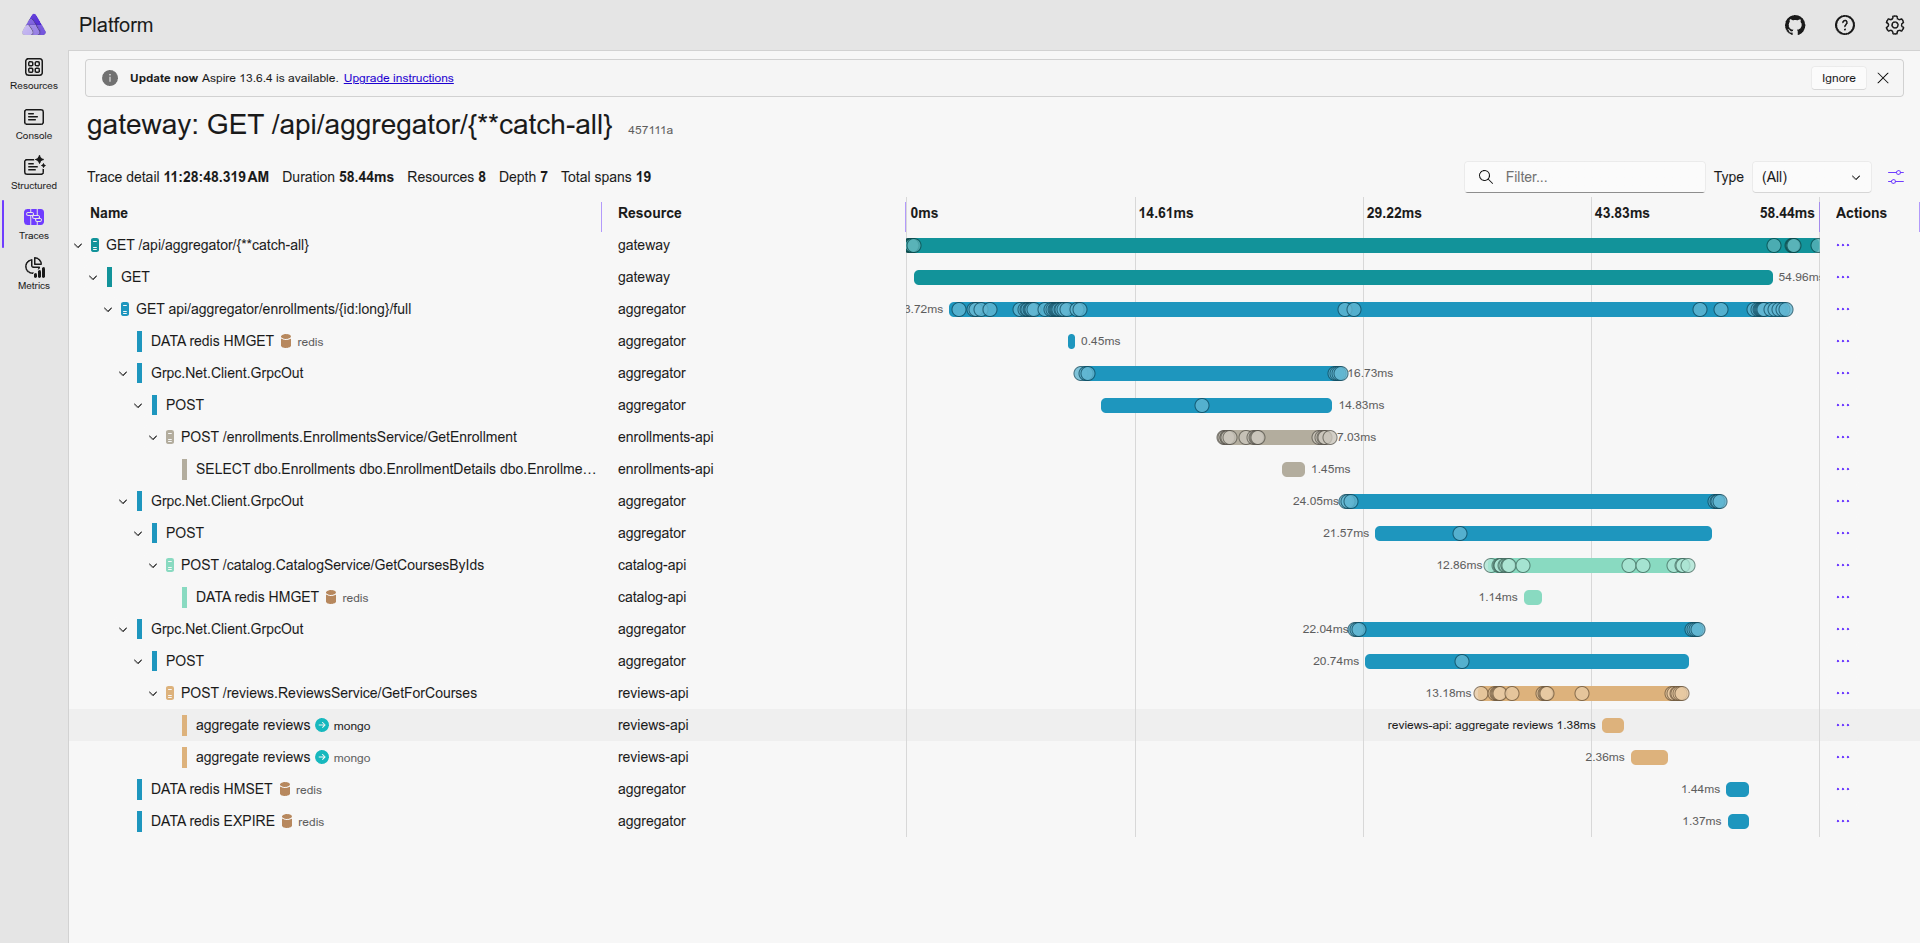
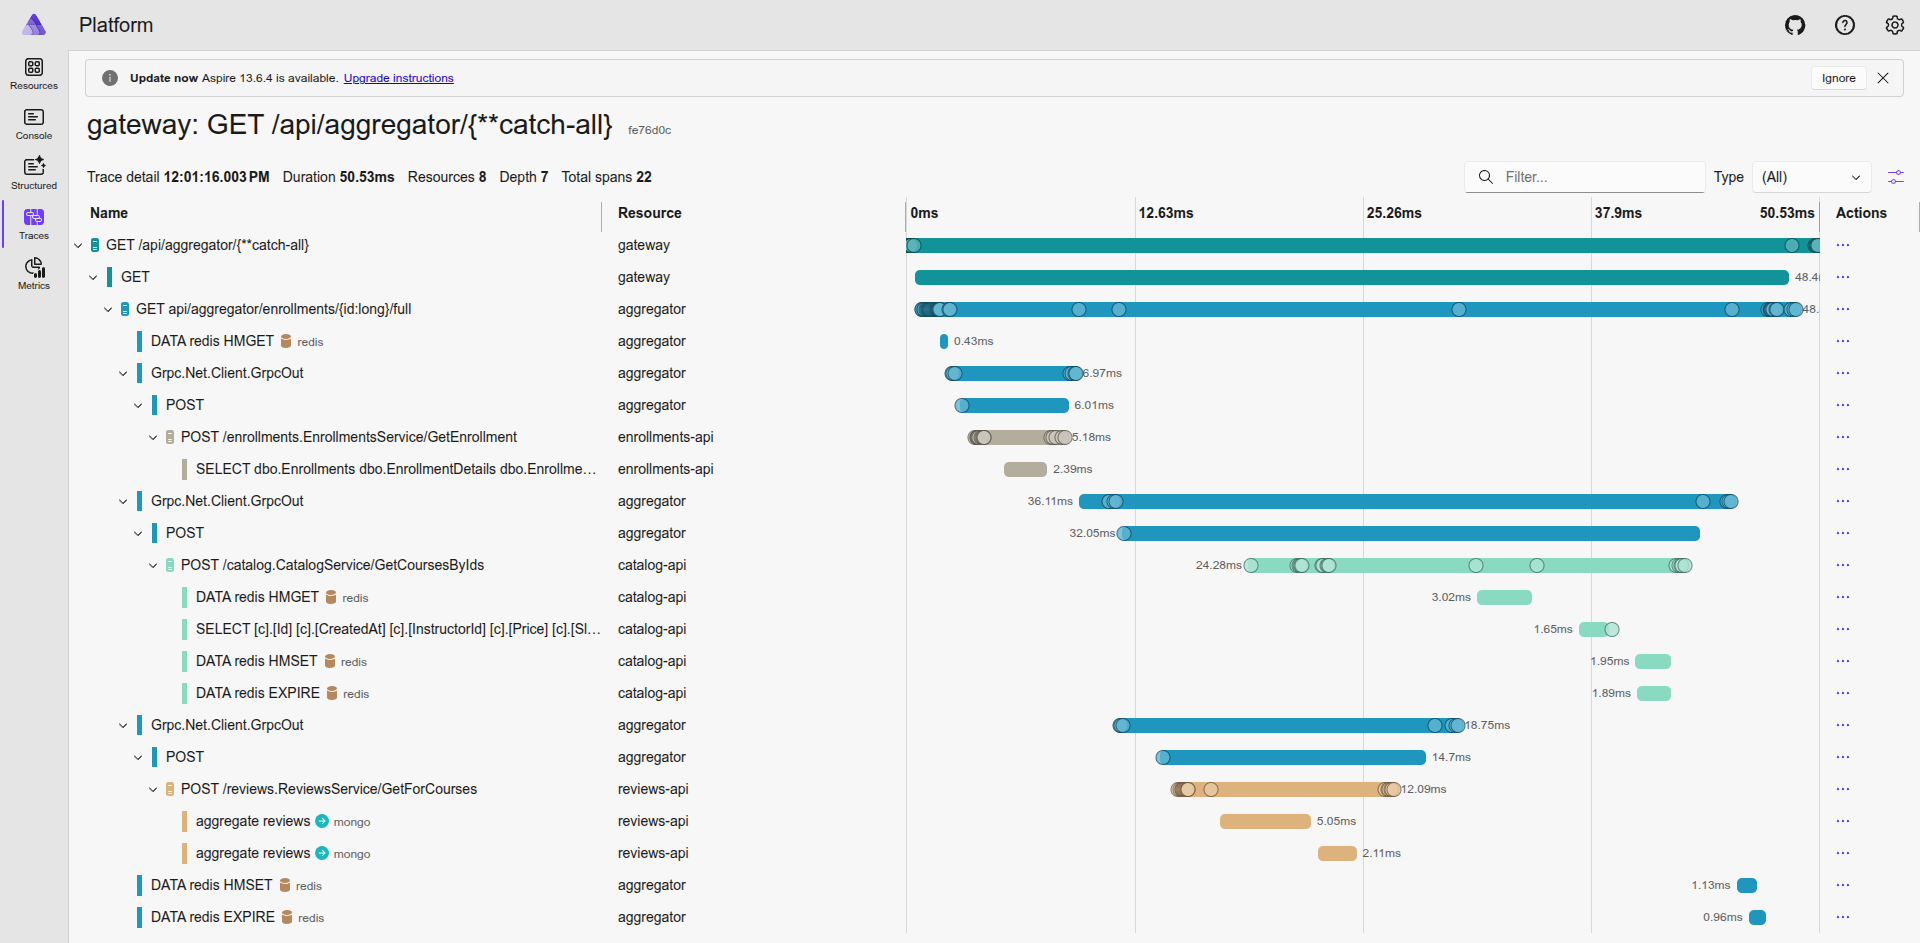
docs(lab-06): compare grpc with cold catalog cache

diff --git a/README.md b/README.md
@@ -256,13 +256,13 @@ curl -X DELETE 'http://localhost:5084/api/reviews/<id>'
 
 ### Дворівневий кеш каталогу
 
-`Catalog.Bll/Caching/TwoLevelCache` працює за схемою cache-aside: L1 (`IMemoryCache`) → L2 (`IDistributedCache` поверх Redis) → EF Core. L1 обмежений `SizeLimit = 10_000`, кожен запис має `Size = 1`, sliding expiration та absolute expiration; L1 живе 1-5 хв, L2 - 5-30 хв. Після запису в БД ключі видаляються з обох рівнів у тій самій операції, причина пише в лог.
+`Catalog.Bll/Caching/TwoLevelCache` працює за схемою cache-aside: L1 (`IMemoryCache`) → L2 (`IDistributedCache` поверх Redis) → EF Core. L1 обмежений `SizeLimit = 10_000`, кожен запис має `Size = 1`; для L1 задані sliding expiration та absolute expiration (не більше двох sliding-періодів), для L2 - абсолютний TTL. Після запису в БД ключі видаляються з обох рівнів у тій самій операції, причина пише в лог.
 
-| Ключ | Дані | L1 | L2 |
+| Ключ | Дані | L1 sliding / максимум | L2 |
 | --- | --- | --- | --- |
-| `catalog:course:{id}` | картка курсу | 1 хв | 10 хв |
-| `catalog:instructor:{id}:courses` | курси інструктора | 1 хв | 5 хв |
-| `catalog:categories:all` | довідник категорій | 5 хв | 30 хв |
+| `catalog:course:{id}` | картка курсу | 1 хв / 2 хв | 10 хв |
+| `catalog:instructor:{id}:courses` | курси інструктора | 1 хв / 2 хв | 5 хв |
+| `catalog:categories:all` | довідник категорій | 5 хв / 10 хв | 30 хв |
 
 `CacheMetrics` створює Meter `Catalog.Cache` з лічильниками `cache.hits`, `cache.misses` (тег `cache.level` = `L1`/`L2`) та `cache.invalidations`. Meter підключений у `ServiceDefaults`, тому метрики видні в Dashboard.
 
@@ -280,7 +280,7 @@ curl -X DELETE 'http://localhost:5084/api/reviews/<id>'
 
 ### Aggregator
 
-`Platform.Aggregator` реєструє три типізовані gRPC-клієнти через `AddGrpcClient` з адресами `https://enrollments-api`, `https://catalog-api`, `https://reviews-api`; service discovery підставляє порти з AppHost. Запит до `catalog` і `reviews` виконується паралельно через `Task.WhenAll`, `RpcException` зі статусом `Unavailable` або `DeadlineExceeded` перетворюється на `warnings`, а не на `500`.
+`Platform.Aggregator` реєструє три типізовані gRPC-клієнти через `AddGrpcClient` з адресами `https://enrollments-api`, `https://catalog-api`, `https://reviews-api`; service discovery підставляє порти з AppHost. Запит до `catalog` і `reviews` виконується паралельно через `Task.WhenAll`, кожен виклик має дедлайн 3 с. `RpcException` зі статусом `Unavailable` або `DeadlineExceeded` перетворюється на `warnings`, а не на `500`; інші помилки не маскуються.
 
 Складена відповідь кешується в Redis за ключем `aggregator:enrollment:{id}:full` на 30 с. Кеш перевіряється до gRPC-викликів; відповіді з `warnings` не кешуються. Якщо Redis недоступний, Aggregator логує попередження і збирає дані напряму.
 
@@ -292,7 +292,7 @@ curl -s 'http://localhost:5000/api/courses/101'
 curl -s 'http://localhost:5000/api/aggregator/enrollments/1/full'
 ```
 
-Другий GET курсу не має SQL-span у Traces. Trace агрегувального запиту містить gRPC client/server spans у одному ланцюжку Gateway → Aggregator → сервіси → БД. Вимірювання: HTTP-агрегація Лаб. 05 - 350 ms, gRPC з холодним кешем - 58.44 ms, повторний запит із кешем агрегатора - 21.88 ms.
+Другий GET курсу не має SQL-span у Traces. Trace агрегувального запиту містить gRPC client/server spans у одному ланцюжку Gateway → Aggregator → сервіси → БД. Вимірювання: HTTP-агрегація Лаб. 05 - 350 ms, gRPC з холодним кешем Catalog - 50.53 ms. В обох трейсах присутній SQL-запит Catalog, тому різниця показує транспорт, а не ефект кешу.
 
 Знімки: `docs/lab-06/dashboard-resources.png`, `docs/lab-06/trace-cache-hit.png`, `docs/lab-06/trace-grpc-aggregator.png`, `docs/lab-06/metrics-cache-hits.png`, `docs/lab-06/structured-logs-cache.png`. Повні команди й очікувані логи описані в `docs/lab-06/manual-checks.md`.
 

diff --git a/docs/lab-06/manual-checks.md b/docs/lab-06/manual-checks.md
@@ -39,7 +39,7 @@ curl -s -X PUT 'http://localhost:5000/api/courses/101/price' \
   -H 'Content-Type: application/json' -d '{"price":1000}'
 ```
 
-Список категорій кешується окремо (`catalog:categories:all`, L1 5 хв, L2 30 хв):
+Список категорій кешується окремо (`catalog:categories:all`, L1 sliding 5 хв з абсолютним максимумом 10 хв, L2 30 хв):
 
 ```bash
 curl -s 'http://localhost:5000/api/categories'
@@ -75,7 +75,7 @@ curl -s 'http://localhost:5000/api/aggregator/enrollments/1/full'
 
 1. Зупиніть `catalog-api` у Dashboard.
 2. `curl -s 'http://localhost:5000/api/aggregator/enrollments/1/full'`.
-3. Очікування: `200`, `enrollment` і `reviews` заповнені, `courses` порожній, `warnings` містить `catalog-api is unavailable`.
+3. Очікування: `200` за 3-4 с (дедлайн gRPC-виклику), `enrollment` і `reviews` заповнені, `courses` порожній, `warnings` містить `catalog-api is unavailable`.
 4. Запустіть `catalog-api`; наступний запит повертає курси без попереджень.
 
 ## Метрики
@@ -89,10 +89,9 @@ curl -s 'http://localhost:5000/api/aggregator/enrollments/1/full'
 | Запит | Транспорт | Тривалість у Traces |
 | --- | --- | --- |
 | `GET /api/aggregator/enrollments/1/full` | HTTP, Лаб. 05 | 350 ms (`docs/lab-05/trace-aggregator.png`) |
-| `GET /api/aggregator/enrollments/1/full` | gRPC, холодний кеш | 58.44 ms (`docs/lab-06/trace-grpc-aggregator.png`) |
-| `GET /api/aggregator/enrollments/1/full` | gRPC, кеш агрегатора | 21.88 ms |
+| `GET /api/aggregator/enrollments/1/full` | gRPC, холодний кеш Catalog | 50.53 ms (`docs/lab-06/trace-grpc-aggregator.png`) |
 
-Вимірювання: відкрийте однаковий запит у Traces, порівняйте `Duration` кореневого span Aggregator. Кеш агрегатора на момент вимірювання має бути холодним (зачекайте 30 с або перезапустіть Aggregator). HTTP-вимір узятий зі знімка Лаб. 05, gRPC-виміри зняті на цій машині 7 листопада 2026.
+Умови виміру: кеш Aggregator порожній, картка курсу відсутня і в L1, і в L2, тому в обох трейсах є `SELECT` Catalog. Перед запитом виконано PUT тієї самої ціни: він очистив `catalog:course:101` та `catalog:instructor:1:courses`, не змінивши даних. HTTP-вимір узятий зі знімка Лаб. 05, gRPC-вимір знятий 7 листопада 2026.
 
 ## Знімки
 
